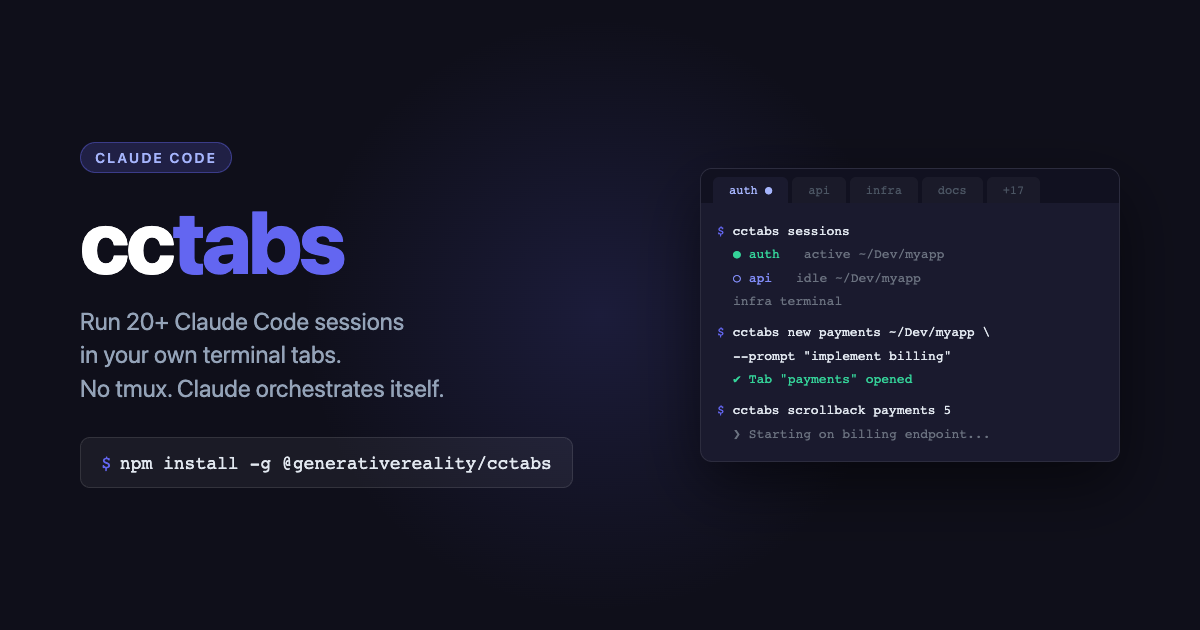
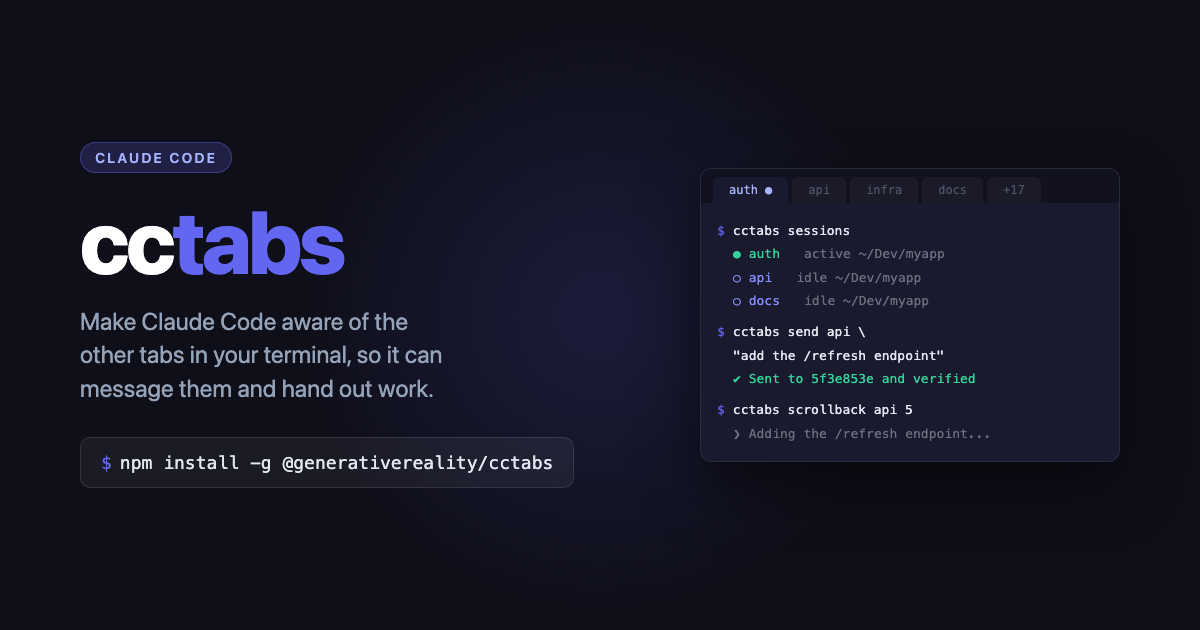
Share image opens on the one line (#57)
The share image (`docs/public/og.png`) still said "Run 20+ Claude Code
sessions in your own terminal tabs" after #56 moved the README and home
page to the one line. Reddit, HN, Slack and X show this image when
someone pastes a cctabs.com link, so it now opens on the same line:

> Make Claude Code aware of the other tabs in your terminal, so it can
message them and hand out work.

The terminal mockup now shows Claude sending another tab a prompt
(`cctabs send`, with the same "Sent to … and verified" output the
command prints) instead of only opening one.

Only `docs/og-template.html` and the regenerated `docs/public/og.png`
change. The PNG was rendered from the template with headless Chrome at
1200×630, because Playwright's bundled browser isn't installed on this
Mac.

🤖 Generated with [Claude Code](https://claude.com/claude-code)

diff --git a/docs/og-template.html b/docs/og-template.html
@@ -133,7 +133,7 @@
     <div class="left">
       <div class="badge">Claude Code</div>
       <h1>cc<span>tabs</span></h1>
-      <div class="tagline">Run 20+ Claude Code sessions<br>in your own terminal tabs.<br>No tmux. Claude orchestrates itself.</div>
+      <div class="tagline">Make Claude Code aware of the<br>other tabs in your terminal, so it can<br>message them and hand out work.</div>
       <div class="install">
         <span class="prompt">$</span>npm install -g @generativereality/cctabs
       </div>
@@ -150,12 +150,12 @@
         <div class="line"><span class="ps">$</span><span class="cmd">cctabs sessions</span></div>
         <div class="line"><span class="out green">● auth</span><span class="out">active  ~/Dev/myapp</span></div>
         <div class="line"><span class="out indigo">○ api</span><span class="out">idle    ~/Dev/myapp</span></div>
-        <div class="line"><span class="out">  infra  terminal</span></div>
-        <div class="line" style="margin-top:8px"><span class="ps">$</span><span class="cmd">cctabs new payments ~/Dev/myapp \</span></div>
-        <div class="line"><span class="cmd" style="padding-left:16px">--prompt "implement billing"</span></div>
-        <div class="line"><span class="out green">✔ Tab "payments" opened</span></div>
-        <div class="line" style="margin-top:8px"><span class="ps">$</span><span class="cmd">cctabs scrollback payments 5</span></div>
-        <div class="line"><span class="out">❯ Starting on billing endpoint...</span></div>
+        <div class="line"><span class="out indigo">○ docs</span><span class="out">idle    ~/Dev/myapp</span></div>
+        <div class="line" style="margin-top:8px"><span class="ps">$</span><span class="cmd">cctabs send api \</span></div>
+        <div class="line"><span class="cmd" style="padding-left:16px">"add the /refresh endpoint"</span></div>
+        <div class="line"><span class="out green">✔ Sent to 5f3e853e and verified</span></div>
+        <div class="line" style="margin-top:8px"><span class="ps">$</span><span class="cmd">cctabs scrollback api 5</span></div>
+        <div class="line"><span class="out">❯ Adding the /refresh endpoint...</span></div>
       </div>
     </div>
   </div>
